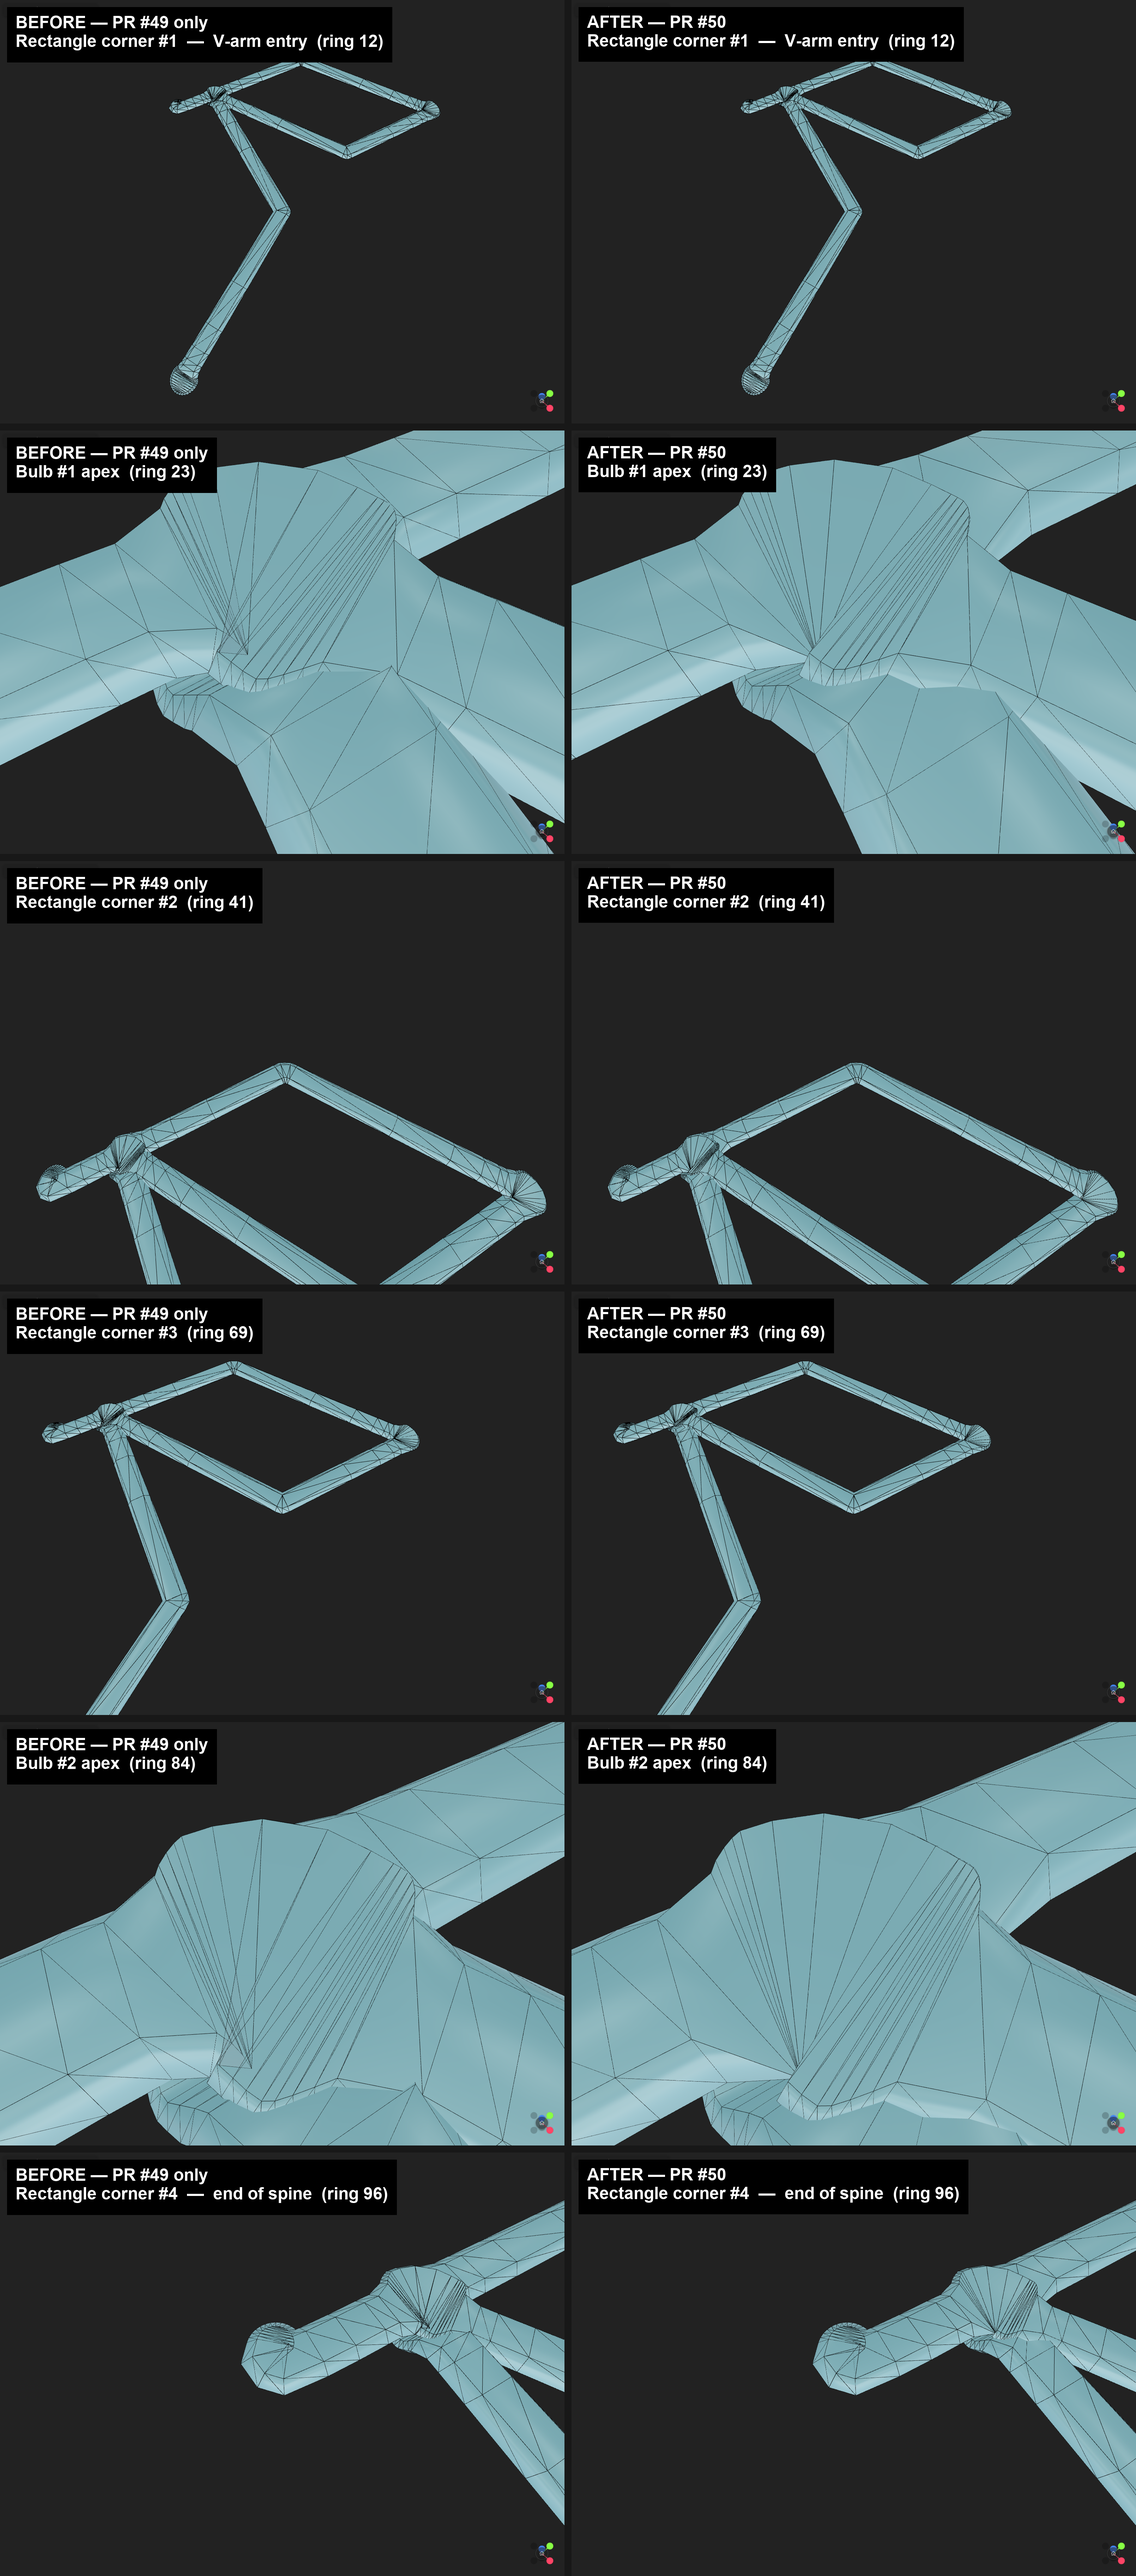
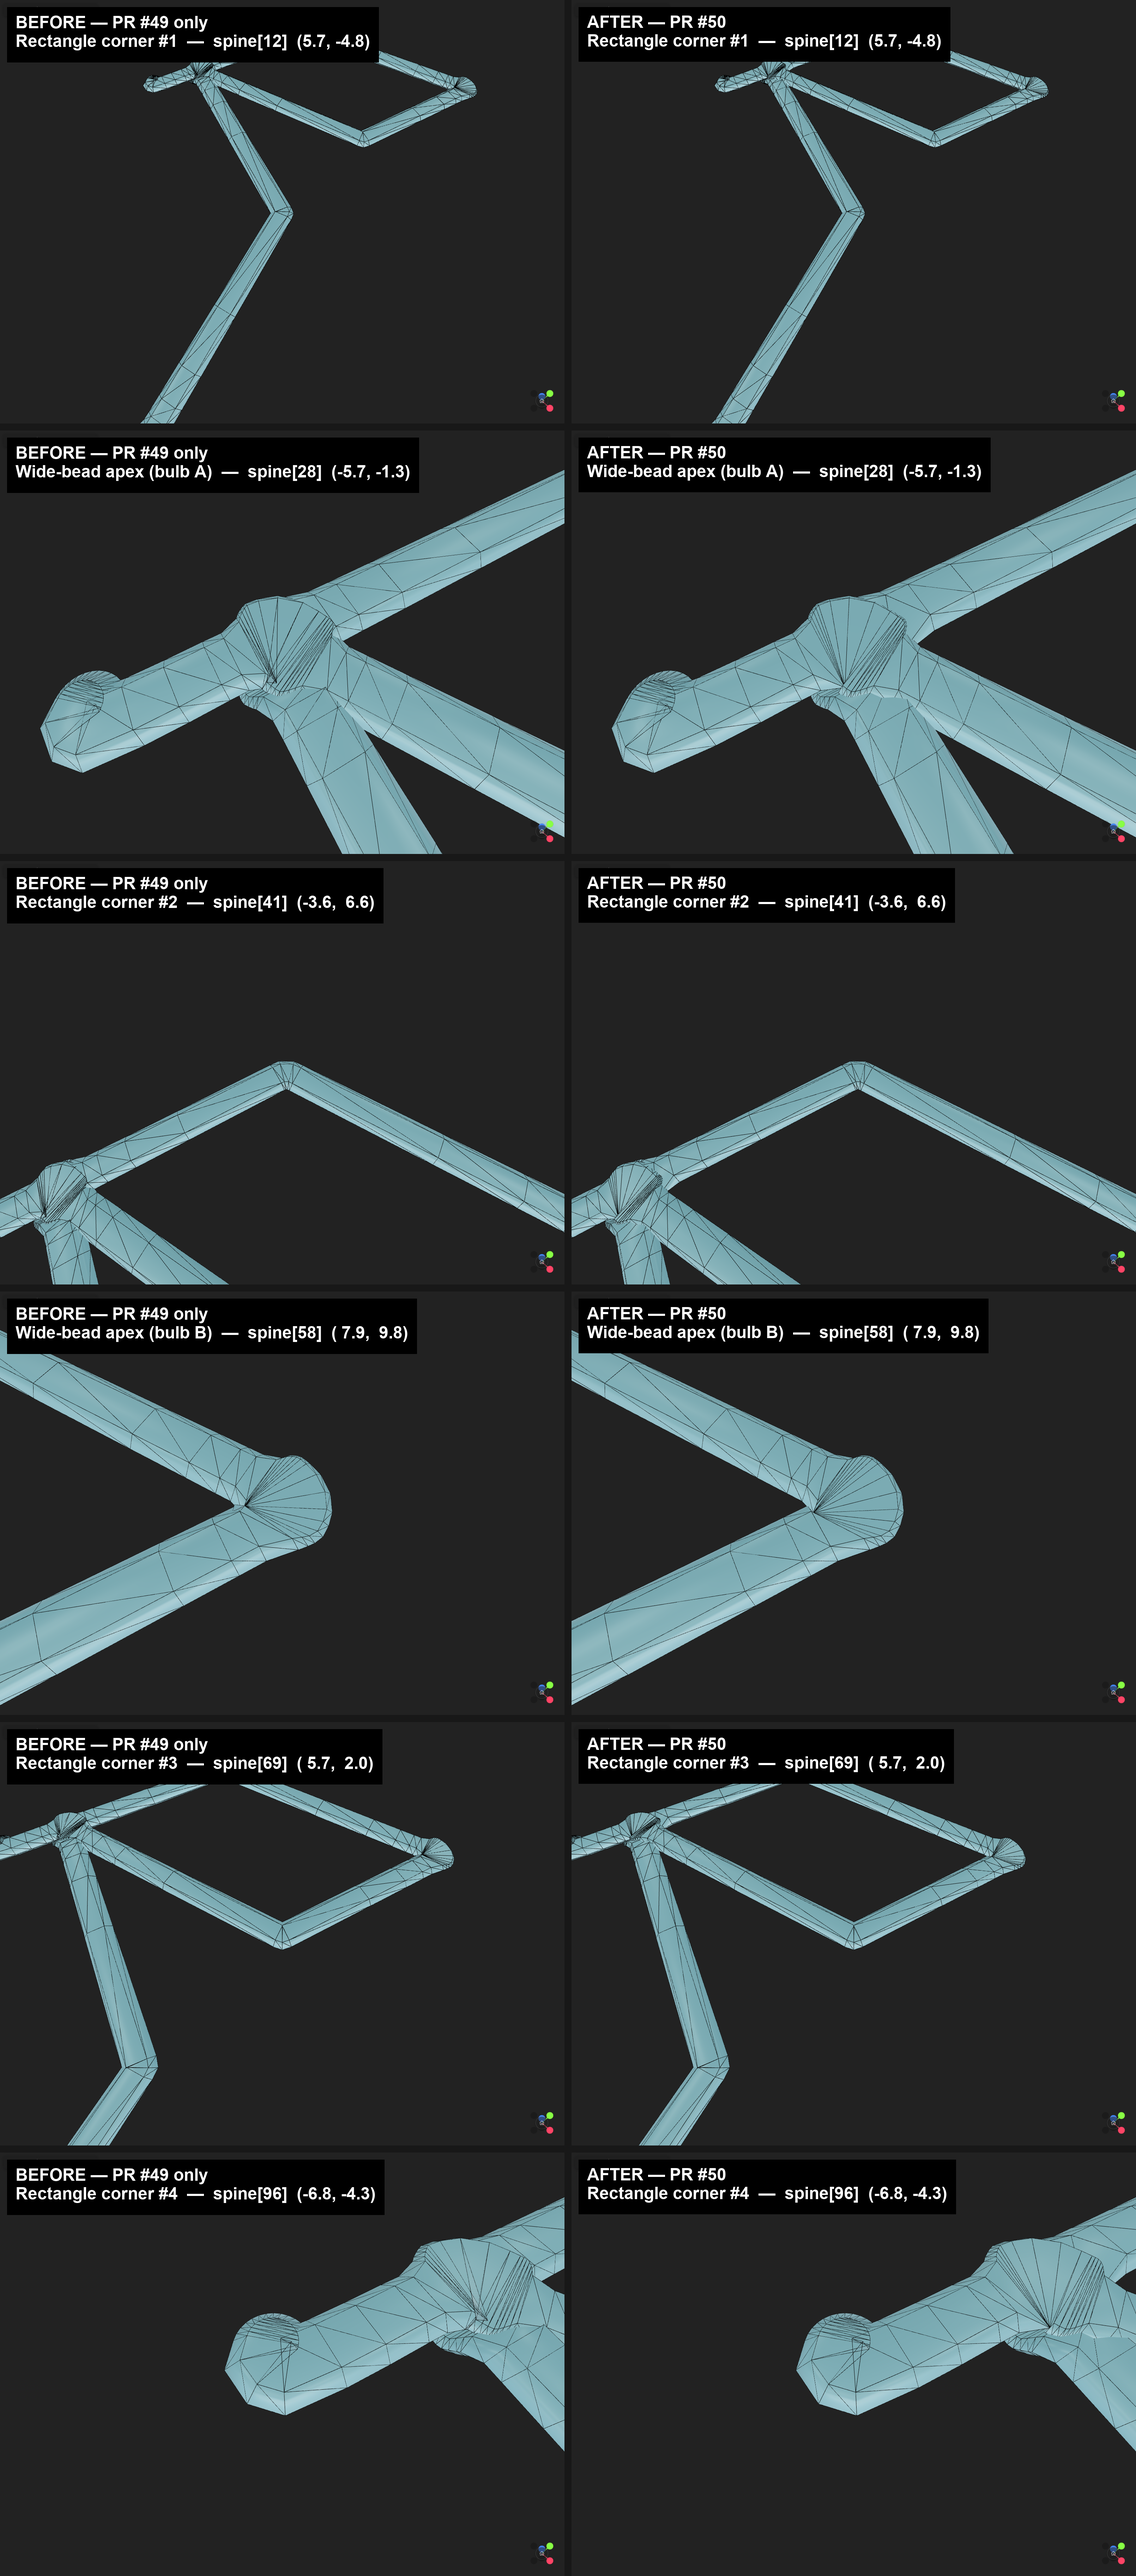
screenshots: dedupe wide-bead apex shots by XY (ring 23/84 → 28/58)
Rings 23 and 84 sit at the same XY apex of bulb A — visited twice at
different Z layers. In a top-down combined-wireframe view they render as
indistinguishable shots. Replace with spine-input-derived corners:

  * spine[28] — bulb A apex   (-5.7, -1.3)  wide-bead cube site
  * spine[58] — bulb B apex   ( 7.9,  9.8)  wide-bead cube site, distinct XY

Detection now scans the input spine (windowed turn-angle + width gate)
and dedupes by XY Manhattan distance, so no two corner shots can share
an XY footprint. capture_strand_collapse.py takes the lookat directly
from spine[idx] * scale (no geometry buffer indexing), with per-axis
half-extents floored by the bead's cross-section so wide-bead apexes
aren't framed inside their own body.

diff --git a/tools/capture_strand_collapse.py b/tools/capture_strand_collapse.py
@@ -80,6 +80,35 @@ def _decode_bead(scale=100.0):
     return spine, widths, heights
 
 
+def _spine_corner_lookat(
+    spine: np.ndarray, widths: np.ndarray, heights: np.ndarray, idx: int, half: int = 4
+):
+    """Lookat target and per-axis half-extents from the *input spine*.
+
+    The geometry's ring centroid matches spine[idx] up to the height-anchor
+    offset, but indexing the position buffer requires assumptions about cap
+    layout that get fragile if the pipeline changes. Reading straight from
+    the input is unambiguous: spine[idx] is the corner, and
+    spine[idx-half..idx+half] is the local arc.
+
+    Half-extents in XY are floored to ~1.5× the bead width and in Z to
+    ~4× the bead height — at a bulb apex the spine is dense and the
+    arc-only extent collapses to a fraction of the cross-section, which
+    would frame the camera *inside* the bead body.
+    """
+    n = len(spine)
+    i0 = max(0, idx - half)
+    i1 = min(n - 1, idx + half)
+    arc = spine[i0 : i1 + 1]
+    target = spine[idx].copy()
+    arc_extent = np.abs(arc - target).max(axis=0)
+    w = float(widths[idx])
+    h = float(heights[idx])
+    floor = np.array([max(w * 1.5, 1.5), max(w * 1.5, 1.5), max(h * 4.0, 0.5)])
+    half_extents = np.maximum(arc_extent, floor)
+    return target, half_extents
+
+
 def capture(
     out_path: Path,
     mode: str = "overview",
@@ -146,10 +175,20 @@ def capture(
         # Two modes:
         #   "overview" — oblique view, shows the rectangle-loop diamond fan
         #     (PR 49) clearly. Bulb-corner cube (PR 50) is subtle at this zoom.
-        #   "corner"   — close zoom on the bulb's inside-corner apex (the
-        #     wide-bead corner cube territory for PR 50). Aim at spine[~30],
-        #     which is inside the bulb feature, with the camera pulled in to
-        #     ~10% of the global bead size.
+        #   "corner"   — close zoom on a corner detected from the *input
+        #     spine* (not from the geometry's position buffer). Two adjacent
+        #     bulb apexes can share an XY footprint at different Z layers;
+        #     buffer-indexed corner extents see them as overlapping, so the
+        #     lookat must come from the input.
+        if mode == "corner":
+            radius_steps = max(3, round(zoom * 2))
+            target, half_extents = _spine_corner_lookat(
+                spine, widths, heights, ring, half=radius_steps
+            )
+            tx, ty, tz = float(target[0]), float(target[1]), float(target[2])
+            hx, hy, hz = float(half_extents[0]), float(half_extents[1]), float(half_extents[2])
+        else:
+            tx = ty = tz = hx = hy = hz = 0.0  # unused in overview mode
         page.evaluate(
             f"""() => {{
                 const v = window.threejsViewer;
@@ -165,55 +204,16 @@ def capture(
                 const s = Math.max(sx, sy, sz);
                 const mode = "{mode}";
                 if (mode === "corner") {{
-                    // Camera is aimed at the corner ring's centroid and
-                    // pulled back along the chosen direction by `dist`,
-                    // where `dist` is computed from the per-axis half-
-                    // extent of the surrounding rings *measured from the
-                    // corner ring centroid*. That keeps the corner at
-                    // screen center for asymmetric spine arcs (one long
-                    // arm, one short) and gives consistent visual scale
-                    // across rings regardless of how the bead is oriented.
-                    const pos = obj.geometry.getAttribute('position').array;
-                    const nCs = obj.userData.tubeNCs;
-                    const nSpine = obj.userData.tubeNumSpinePoints;
-                    // Corner ring centroid — the camera target.
-                    let crx = 0, cry = 0, crz = 0;
-                    for (let j = 0; j < nCs; j++) {{
-                        crx += pos[({ring} * nCs + j) * 3];
-                        cry += pos[({ring} * nCs + j) * 3 + 1];
-                        crz += pos[({ring} * nCs + j) * 3 + 2];
-                    }}
-                    crx /= nCs; cry /= nCs; crz /= nCs;
-                    // Half-extents in the local neighbourhood. Measured as
-                    // max(|p - centroid|) so the bbox is symmetric around
-                    // the corner — leaves no biased empty space on either
-                    // side of the frame.
-                    const radius = Math.max(3, Math.round({zoom} * 2));
-                    const r0 = Math.max(0, {ring} - radius);
-                    const r1 = Math.min(nSpine - 1, {ring} + radius);
-                    let halfX = 0, halfY = 0, halfZ = 0;
-                    for (let r = r0; r <= r1; r++) {{
-                        for (let k = 0; k < nCs; k++) {{
-                            const i = (r * nCs + k) * 3;
-                            const ex = Math.abs(pos[i]     - crx);
-                            const ey = Math.abs(pos[i + 1] - cry);
-                            const ez = Math.abs(pos[i + 2] - crz);
-                            if (ex > halfX) halfX = ex;
-                            if (ey > halfY) halfY = ey;
-                            if (ez > halfZ) halfZ = ez;
-                        }}
-                    }}
-                    // FOV-aware fit. The viewer's perspective FOV is on the
-                    // vertical axis; horizontal half-FOV = atan(tan(vFOV/2) * aspect).
-                    // Pull back so the *worst* axis fits inside the frame.
+                    const crx = {tx}, cry = {ty}, crz = {tz};
+                    const halfX = {hx}, halfY = {hy}, halfZ = {hz};
+                    // FOV-aware fit. Vertical FOV is the camera setting;
+                    // horizontal half-FOV = atan(tan(vFOV/2) * aspect).
                     const vFov = (v._perspCamera.fov || 75) * Math.PI / 180 / 2;
                     const aspect = v._perspCamera.aspect || (1600 / 1200);
                     const hFov = Math.atan(Math.tan(vFov) * aspect);
                     const distV = Math.max(halfY, halfZ) / Math.tan(vFov);
                     const distH = Math.max(halfX, halfY) / Math.tan(hFov);
                     const dist = Math.max(distV, distH) * 1.4;
-                    // Direction preset. Elevation > azimuth ("more down than
-                    // sideways") — ~67° elevation in 'a'/'b', steeper in 'c'.
                     const dirCode = "{cam_dir}";
                     let dx, dy, dz;
                     if (dirCode === "b")      {{ dx =  0.3; dy =  0.3; dz =  1.0; }}
@@ -223,9 +223,6 @@ def capture(
                     dx /= dLen; dy /= dLen; dz /= dLen;
                     v._camera.position.set(crx + dx * dist, cry + dy * dist, crz + dz * dist);
                     v._controls.target.set(crx, cry, crz);
-                    v._camera.up.set(0, 0, 1);
-                    v._camera.lookAt(crx, cry, crz);
-                    v._controls.update();
                 }} else {{
                     v._camera.position.set(cx + 0.8 * s, cy - 0.6 * s, cz + 0.55 * s);
                     v._controls.target.set(cx, cy, cz);
